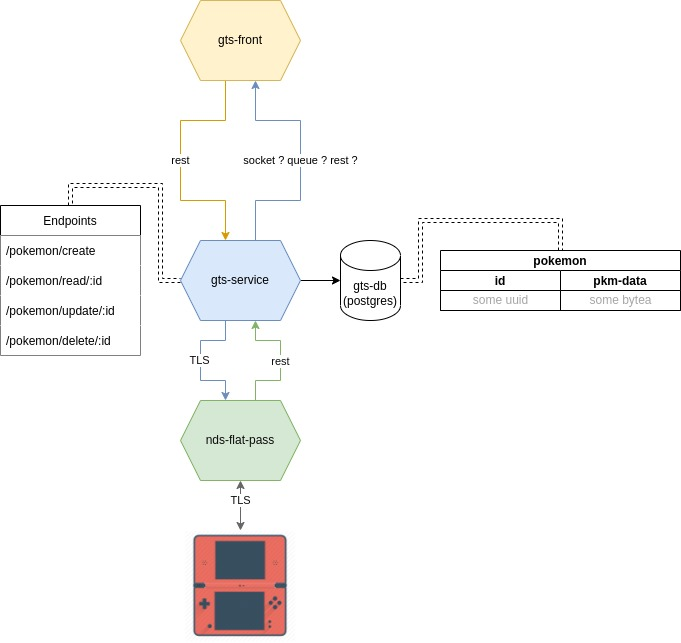
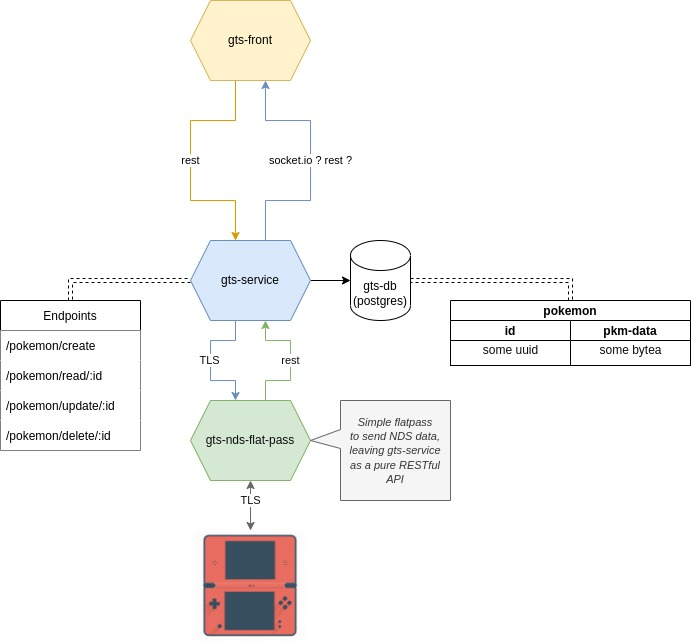
Update READMEs
Updating the main README's architecture schema
Creating READMEs for each service

diff --git a/webapp/gts-front/README.md b/webapp/gts-front/README.md
@@ -1,0 +1,111 @@
+#GTS-FRONT
+Frontend interface for the GTS service.
+
+---
+
+Mostly, it should receive data from the NDS, and send them, updated to it.
+
+Eventually it must:
+ - receive data events from the GTS service (using socket.io, or pure rest requests)
+ - send data to the GTS service (rest request)
+
+Flow:
+ - sending pokemon to GTS:   NDS > gts-flat-pass > gts-service > gts-front
+ - receive pokemon from GTS: gts-front > gts-service > gts-flat-pass > NDS
+
+---
+
+#NDS to Fake-GTS
+```
++-----------------------------------------------------------------------------+
+|                                                                             |
+|      Fake-GTS running: XX.XX.XX.XX               NDS Status: CONNECTED  <- - - - -  updated on NDS join/leave (via CWF)
+|                                                                             | 
++-----------------------------------------------------------------------------+
+|                                                                             |
+|                                                                             |
+|   Mode:  NDS (Gen4) => Fake-GTS  <- - - - - - - - - - - - - - - - - - - - - - - - - dropdown menu (updating the window)
+|          ----------------------                                             |
+|                                                                             |
+|   +------+ +----------------------------------------------------+ +------+  |
+|   | NDS  | |/////////////////////////////////////////////       | | GTS  |  |
+|   |      | |/////////////////////// 90% /////////////////       | |      |  |
+|   | Logo | |/////////////////////////////////////////////       | | Logo |  |
+|   +------+ +----------------------------------------------------+ +------+  |
+|                                                                             |
+|                                                                             |
+|   Pokemon to Store:                                                         |
+|                                                                             |
+|   +-------+  <- - - - - - - - - - - - - - - - - - - - - - - - - - - - - - - - - - -  actual sprite (must shiny if the Pokemon is shiny)
+|   | Pkmn  |  Name:  Pikachu   Gender:  Male                                 |
+|   |       |  Index: #25       Ability: Static                               |
+|   | icon +-+ Level: 1         Nature:  Timid                                |
+|   +------|O| <- - - - - - - - - - - - - - - - - - - - - - - - - - - - - - - - - - -  held object icon
+|          +-+                                                                |
+|                                                                             |
+|    OT: B,  ID: 39771,  Secret ID: 39765                               \     |
+|    Holding: Rare Candy,  Happiness: 73                                 |    |
+|    Hidden Power: Psychic-type, 42 Base Power                           |    |
+|                                                                        |    |
+|    Attacks: +------------+--------+                                    |    |
+|             | Nasty Plot | Growl  |                                    |- - - - - -  Various tables to give
+|             +------------+--------+                                    |    |        clear information
+|             | Charm      | Nuzzle |                                    |    |
+|             +------------+--------+                                    |    |        (Moves must have a simple design
+|                                                                        |    |         to display their Type,
+|    IVs: HP  27, Atk  10, Def  13, SpA  28, SpD   7, Spe  25            |    |         and rather they are Phyiical or Special)
+|    EVs: HP   0, Atk   0, Def   0, SpA   0, SpD   0, Spe   0, Total 0  /     |
+|                                                                             |
+|                                                                             |
++-----------------------------------------------------------------------------+
+
+```
+
+---
+
+#Fake-GTS to NDS
+```
++-----------------------------------------------------------------------------+
+|                                                                             |
+|      Fake-GTS running: XX.XX.XX.XX               NDS Status: CONNECTED  <- - - - -  updated on NDS join/leave (via CWF)
+|                                                                             | 
++-----------------------------------------------------------------------------+
+|                                                                             |
+|                                                                             |
+|   Mode:  Fake-GTS => NDS (Gen4)                                             |
+|          ----------------------                                             |
+|                                                                             |
+|   +------+ +----------------------------------------------------+ +------+  |
+|   | GTS  | |/////////////////////////////////////////////       | | NDS  |  |
+|   |      | |/////////////////////// 90% /////////////////       | |      |  |
+|   | Logo | |/////////////////////////////////////////////       | | Logo |  |
+|   +------+ +----------------------------------------------------+ +------+  |
+|                                                                             |
+|                                                                             |
+|   Pokemon to Receive:  Pikachu (lvl.1 / rare-candy / timid)  <- - - - - - - - - - -  dropdown menu
+|                        ------------------------------------                 |
+|                                                                             |
+|   +-------+                                                                 |
+|   | Pkmn  |  Name:  Pikachu   Gender:  Male                                 |
+|   |       |  Index: #25       Ability: Static                               |
+|   | icon +-+ Level: 1         Nature:  Timid                                |
+|   +------|O|                                                                |
+|          +-+                                                                |
+|                                                                             |
+|    OT: B,  ID: 39771,  Secret ID: 39765                                     |
+|    Holding: Rare Candy,  Happiness: 73                                      |
+|    Hidden Power: Psychic-type, 42 Base Power                                |
+|                                                                             |
+|    Attacks: +------------+--------+                                         |
+|             | Nasty Plot | Growl  |                                         |
+|             +------------+--------+                                         |
+|             | Charm      | Nuzzle |                                         |
+|             +------------+--------+                                         |
+|                                                                             |
+|    IVs: HP  27, Atk  10, Def  13, SpA  28, SpD   7, Spe  25                 |
+|    EVs: HP   0, Atk   0, Def   0, SpA   0, SpD   0, Spe   0, Total 0        |
+|                                                                             |
+|                                                                             |
++-----------------------------------------------------------------------------+
+
+```

diff --git a/webapp/gts-service/README.md b/webapp/gts-service/README.md
@@ -1,0 +1,17 @@
+#GTS-SERVICE
+---
+
+RESTful API WS
+
+It must handle:
+ - data received from gts-nds-flat-pass
+ - the frontend (receiving requests, sending events (pokemon data, transfers progress))
+ - gamestats2.gs.nintendowifi.net (according to the [GTS-documentation](https://projectpokemon.org/docs/gen-5/gts-protocol-r19/))
+
+# Data Received
+
+Documentation in progress
+
+# Frontend
+
+Documentation in progress

diff --git a/webapp/gts-nds-flatpass/README.md b/webapp/gts-nds-flatpass/README.md
@@ -1,0 +1,8 @@
+#GTS-NDS-FLAT-PASS
+---
+
+Simple HTTP server, to be used as DNS for the NSD-CWF
+
+It should simply interact with:
+ - the NDS (receive/send binary data)
+ - the gts-service (receive/send data (json ? unchanged binary ?))
